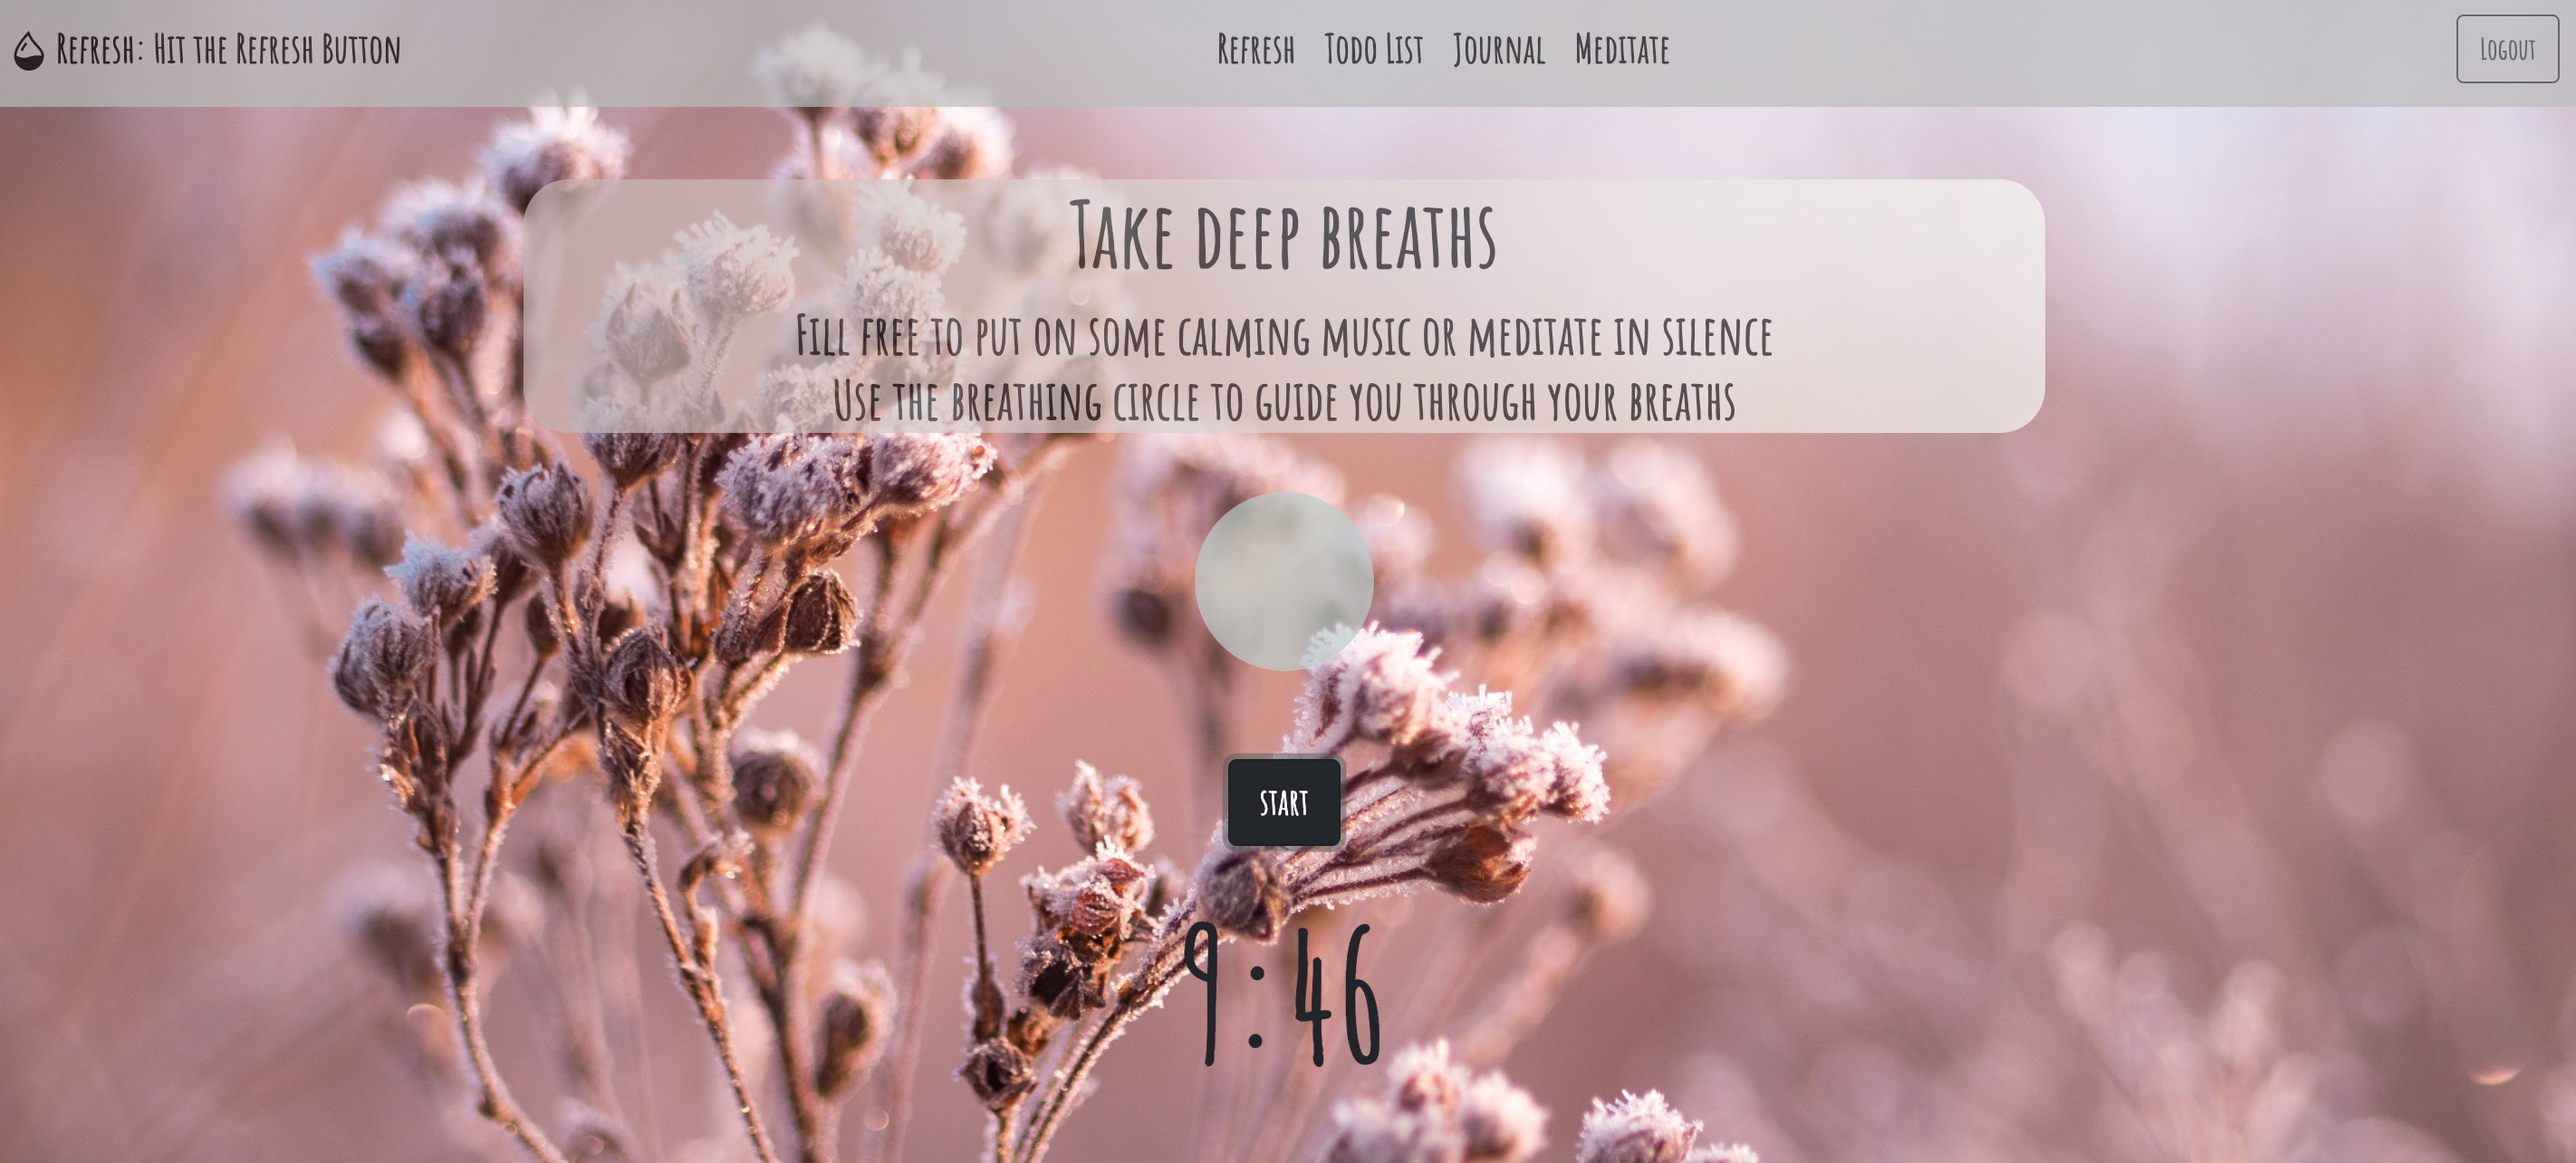
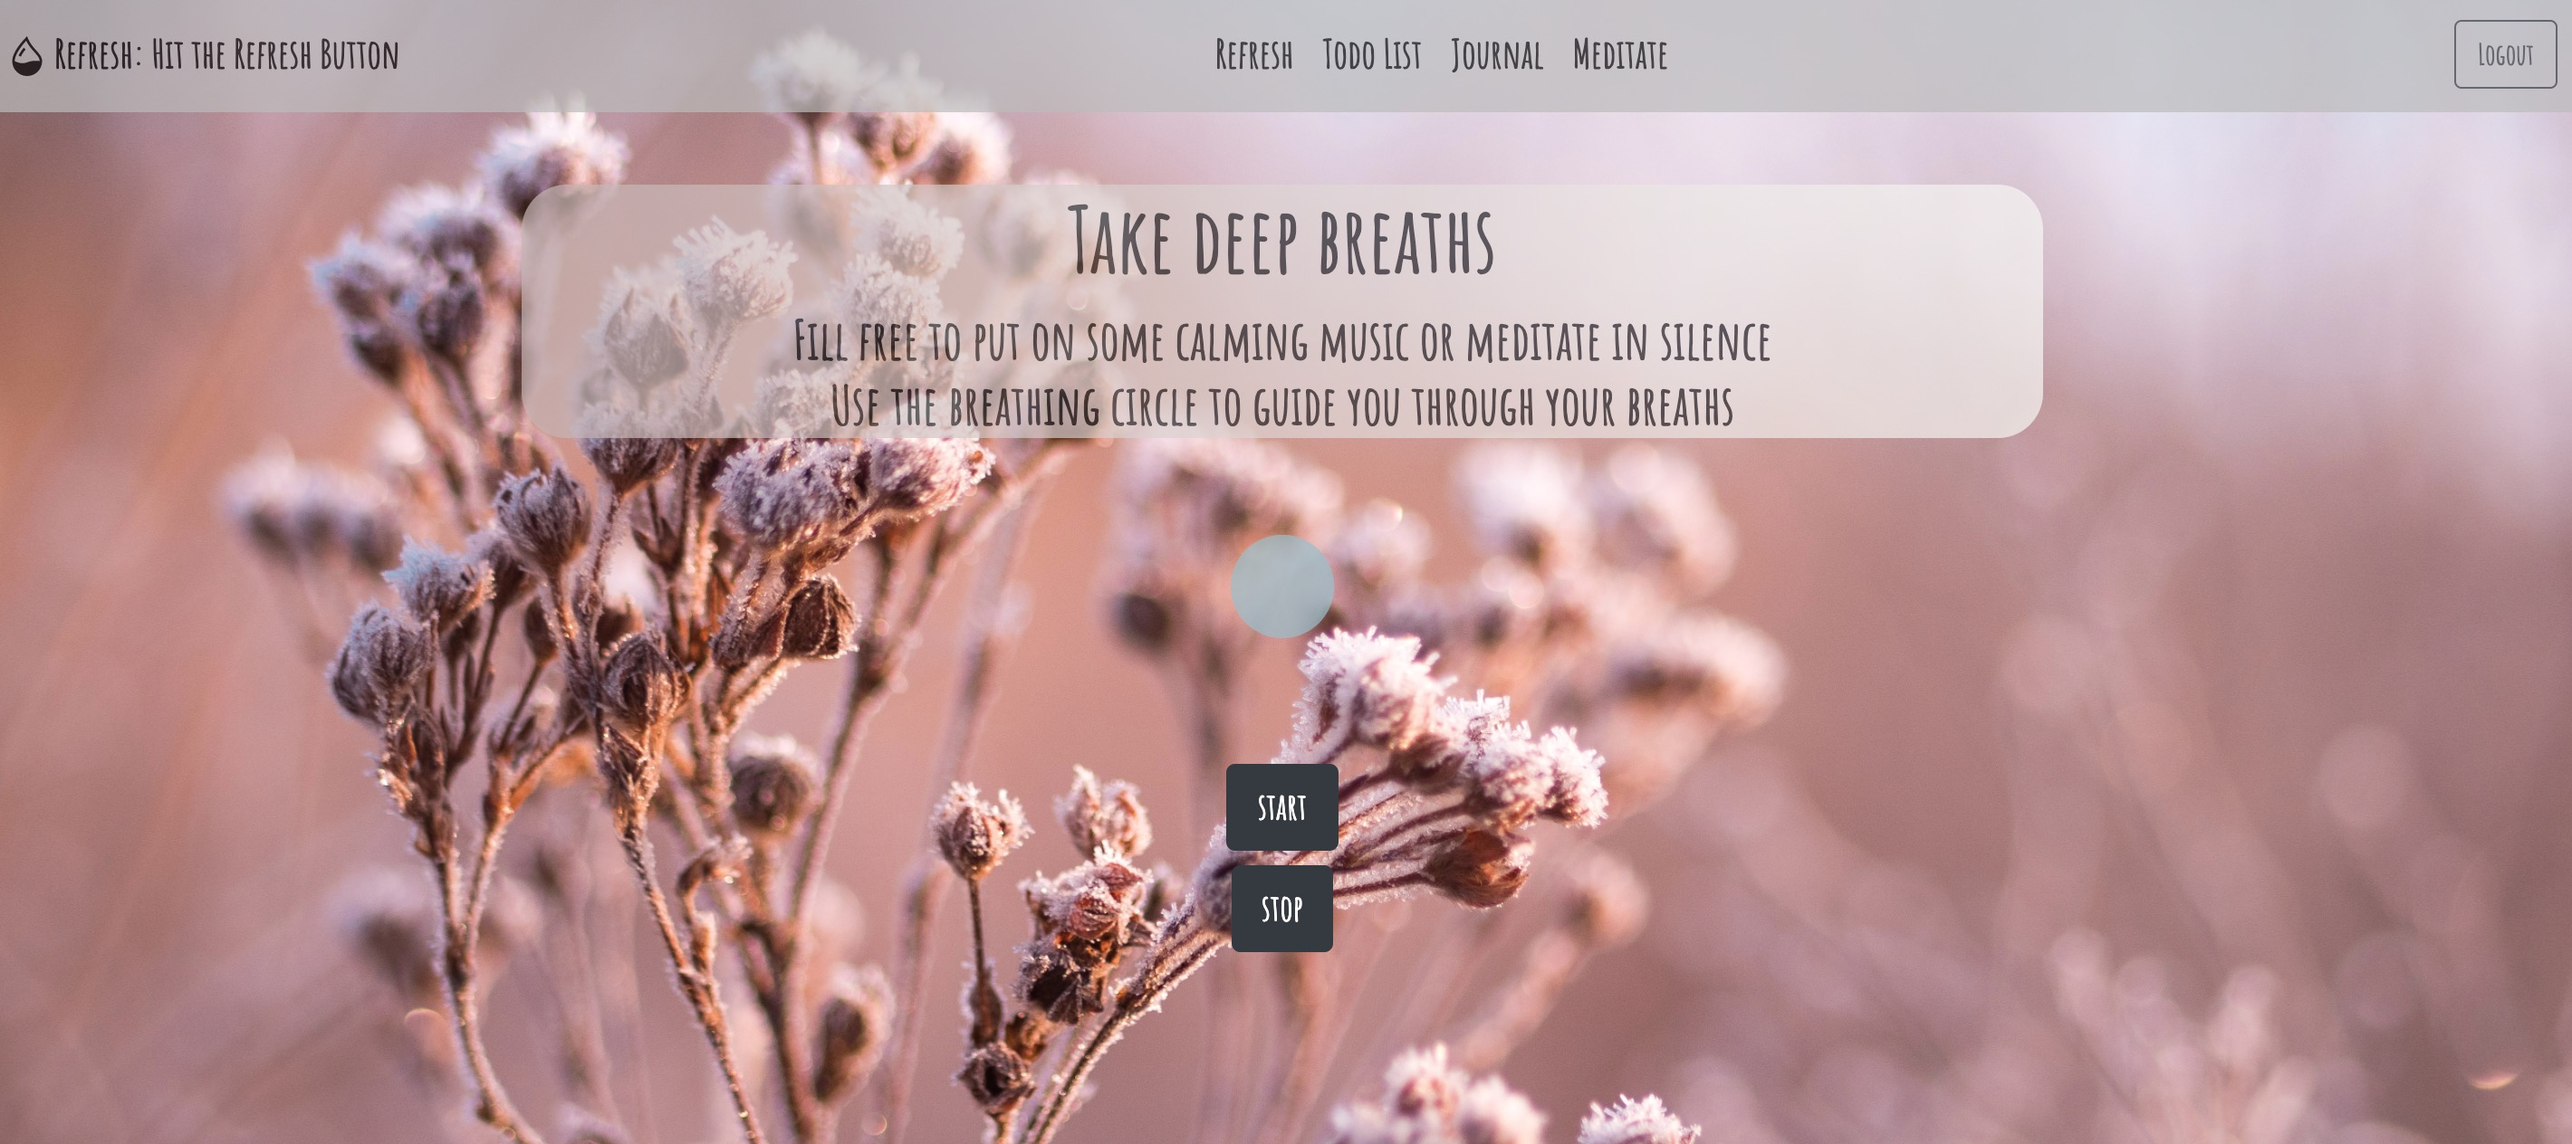
fixed styling and homepage

diff --git a/templates/homepage.html b/templates/homepage.html
@@ -24,7 +24,7 @@
   </head>
   <body>
     <nav class="navbar navbar-expand-lg navbar-custom">
-      <a class="navbar-brand" href="/">
+      <a class="navbar-brand">
         <svg width="1em" height="1em" viewBox="0 0 16 16" class="bi bi-droplet-half" fill="currentColor" xmlns="http://www.w3.org/2000/svg">
           <path fill-rule="evenodd" d="M7.21.8C7.69.295 8 0 8 0c.109.363.234.708.371 1.038.812 1.946 2.073 3.35 3.197 4.6C12.878 7.096 14 8.345 14 10a6 6 0 0 1-12 0C2 6.668 5.58 2.517 7.21.8zm.413 1.021A31.25 31.25 0 0 0 5.794 3.99c-.726.95-1.436 2.008-1.96 3.07C3.304 8.133 3 9.138 3 10c0 0 2.5 1.5 5 .5s5-.5 5-.5c0-1.201-.796-2.157-2.181-3.7l-.03-.032C9.75 5.11 8.5 3.72 7.623 1.82z"/>
           <path fill-rule="evenodd" d="M4.553 7.776c.82-1.641 1.717-2.753 2.093-3.13l.708.708c-.29.29-1.128 1.311-1.907 2.87l-.894-.448z"/>
@@ -64,10 +64,10 @@
         <h2>Create an Account</h2>
         <form action="/users" method="POST">
           <p>
-            Username <input class="username" type="text" name="username" size="25%">
+            Username <input class="username" type="text" name="username" size="20%">
           </p>
           <p>
-            Password <input class="password" type="password" name="password" placeholder="At least 6 characters" size="25%">
+            Password <input class="password" type="password" name="password" placeholder="At least 6 characters" size="20%">
           </p>
           <p>
             <input type="submit" value="Create">
@@ -80,11 +80,11 @@
       <h2>Login</h2>
       <form action="/login" method="POST">
         <p>
-          Username <input class="username" type="text" name="login-username" size="25%">
+          Username <input class="username" type="text" name="login-username" size="20%">
         </p>
       
         <p>
-          Password <input class="password" type="password" name="login-password" size="25%">
+          Password <input class="password" type="password" name="login-password" size="20%">
         </p>
       
         <p>

diff --git a/templates/base.html b/templates/base.html
@@ -19,16 +19,16 @@
   </head>
   <body>
     <nav class="navbar navbar-expand-lg navbar-custom">
-      <a class="navbar-brand" href="/refresh">
+      <a class="navbar-brand">
           <svg width="1em" height="1em" viewBox="0 0 16 16" class="bi bi-droplet-half" fill="currentColor" xmlns="http://www.w3.org/2000/svg">
           <path fill-rule="evenodd" d="M7.21.8C7.69.295 8 0 8 0c.109.363.234.708.371 1.038.812 1.946 2.073 3.35 3.197 4.6C12.878 7.096 14 8.345 14 10a6 6 0 0 1-12 0C2 6.668 5.58 2.517 7.21.8zm.413 1.021A31.25 31.25 0 0 0 5.794 3.99c-.726.95-1.436 2.008-1.96 3.07C3.304 8.133 3 9.138 3 10c0 0 2.5 1.5 5 .5s5-.5 5-.5c0-1.201-.796-2.157-2.181-3.7l-.03-.032C9.75 5.11 8.5 3.72 7.623 1.82z"/>
           <path fill-rule="evenodd" d="M4.553 7.776c.82-1.641 1.717-2.753 2.093-3.13l.708.708c-.29.29-1.128 1.311-1.907 2.87l-.894-.448z"/>
           </svg>
-          Refresh: Hit the Refresh Button
+          Refresh
       </a>
       <ul class="navbar-nav">
           <li class="nav-item">
-              <a class="nav-link" href="/refresh">Refresh</a>
+              <a class="nav-link" href="/refresh">Home</a>
           </li>
           <li class="nav-item">
               <a class="nav-link" href="/todo">Todo List</a> 

diff --git a/templates/journal.html b/templates/journal.html
@@ -3,8 +3,20 @@
 {% block title %}{% endblock %}
 
 {% block body %}
+<style>
+    #refresh {
+        text-align: center;
+        font-family: 'Amatic SC', cursive;
+        font-size: 23px;
+    }
+</style>
 <div class="container">
     <h1 id="reminders_title" class="mt-3">Quick Refresh</h1>
+    <form action="/save">
+        <div id="refresh" class="mt-3">
+            <input class="mb-3" class="btn btn-dark btn-lg" type="submit" value="refresh">
+        </div>
+    </form>
     <div class="row">
         <div class="col">
             <div id="entry">
@@ -39,7 +51,7 @@
             </div>
         </div>
         <div class="col">
-            <div id="entry">
+            <div id="entry" name="entry">
                 <div class="mt-3" id="title">Free Feelings</div>
                     <ol>
                         <li><textarea rows="14" cols="100"></textarea></li><br>
@@ -48,5 +60,6 @@
         </div>
     </div>
 </div>
+
 
 {% endblock %}

diff --git a/static/style.css b/static/style.css
@@ -13,11 +13,6 @@
     margin-top: 1em;
 }
 
-#title {
-    text-align: center;
-    font-family: 'Amatic SC', cursive;
-    font-size: 30px;
-}
 
 #reminders_title {
     text-align: center;
@@ -71,9 +66,16 @@ img {
 }
 
 
-.nav-link, .navbar-brand {
+.nav-link {
     color: black;
     font-size: 22px;
+    font-weight: 800;
+}
+.navbar-brand{
+    color: black;
+    font-size: 27px;
+    font-family:'Dawning of a New Day', cursive;
+    font-weight: 600;
 }
 
 body {
@@ -92,10 +94,11 @@ h1, h3, h2, p,.additem,.refresh, nav{
         font-weight: 900;
 } */
 
-.description {
+.description, #title {
         font-family: 'Cutive Mono', monospace;
         text-align: center;
-        font-size: 18px;
+        font-size: 20px;
+        font-weight: 500;
 }
 
 
@@ -124,7 +127,10 @@ ul, ol {
 }
 
 .flash-msg {
-    color:rgb(78, 72, 76)
+    color: white;
+    text-shadow: 2px 2px 5px whitesmoke;
+    font-size: 40px;
+    font-weight: 400;
 }
 
 

diff --git a/templates/todo.html b/templates/todo.html
@@ -6,7 +6,7 @@
 <style>
     #todo {
         background-image: linear-gradient(to right, rgb(196, 179, 179) , rgb(248, 248, 245));
-        opacity: 0.8;
+        opacity: 0.9;
         border-radius: 25px;
         margin-left: 30em;
         margin-right: 30em;
@@ -16,13 +16,16 @@
         font-family: 'Amatic SC', cursive;
         font-size: 23px;
     }
+    
 </style>
 <br>
 <h1 id="reminders_title">ToDo List</h1>
 <br>
 <div id="todo">
-    <h2 class="description">Once you've completed all your todos, you can Refresh
-        your list to start fresh
+    <h2 class="description">Once you've completed your to-dos
+    </h2>
+    <h2 class="description">
+        Refresh your list to start anew
     </h2>
     <div class="mb-4" id="refresh">
         <form action='/delete'>

diff --git a/templates/refresh.html b/templates/refresh.html
@@ -8,12 +8,9 @@
 <img src="/static/images/white-stroke-png-4.png" width="650" height="186">
 <div class="reminder">
     <h1 id="reminders_title">Reminders</h1>
-    <h2 class="description">
-        Worried you might forget?
-    </h2>
     <h3 class="description">
-        Set up text message reminders so you
-        don't miss to REFRESH!
+        Sign up for text message reminders so you
+        don't forget to REFRESH!
     </h3>
     <div class="sign-up">
         <br>

diff --git a/templates/meditate.html b/templates/meditate.html
@@ -6,6 +6,7 @@
 <style>
     p {
         font-size: 99px;
+        color: whitesmoke
     }
 
     #meditation {
@@ -35,13 +36,9 @@
 <br>
 <h3>
     <button class="btn btn-dark btn-lg" id='start'>start</button>
-</h3>
-<h3>
-    <button class="btn btn-dark btn-lg" id='stop'>stop</button>
+    <button class="btn btn-dark btn-lg" id='stop'>pause</button>
 </h3>
 <p id="meditate"></p>
-<p id="demo"></p>
-
 <script src="/static/timer.js"></script>
 
 {% endblock %}

diff --git a/static/timer.js b/static/timer.js
@@ -15,9 +15,6 @@ function updateTimer() {
     time --;
 } 
 
-// function myStopFunction() {
-//     clearInterval(timer);
-// }
 
 startButton.addEventListener("click", (evt) => {
     timer = setInterval(updateTimer, 1000);

diff --git a/server.py b/server.py
@@ -65,8 +65,16 @@ def login():
     login_user = crud.get_user_by_username(username)
     login_password = crud.get_user_by_password(password)
     if login_user and login_password:
-        flash('You are Logged In!')
+        flash('Successfully Logged In!')
         return redirect('/refresh')
+
+    elif not login_password:
+        flash('Incorrect password!')
+        return redirect('/')
+
+    elif not login_user:
+        flash('Incorrect username!')
+        return redirect('/')
 
     else:
         flash('Account not found!')
@@ -155,11 +163,12 @@ def show_journal_page():
     
     return render_template('journal.html')
 
-@app.route('/save', methods=["POST"])
+@app.route('/save')
 def save_entry():
     """Save Journal Entry"""
-    entry = request.form.get('textarea')
-    crud.add_entry(entry)
+    
+
+    flash('Entries Saved!')
 
     return redirect('/journal')
 

diff --git a/crud.py b/crud.py
@@ -75,7 +75,7 @@ def create_list(name, user_id):
 
     return nlist
 
-def add_entry(text):
+def save_entry(text):
     """Create an Entry"""
 
     entry = Entry(text=text)
